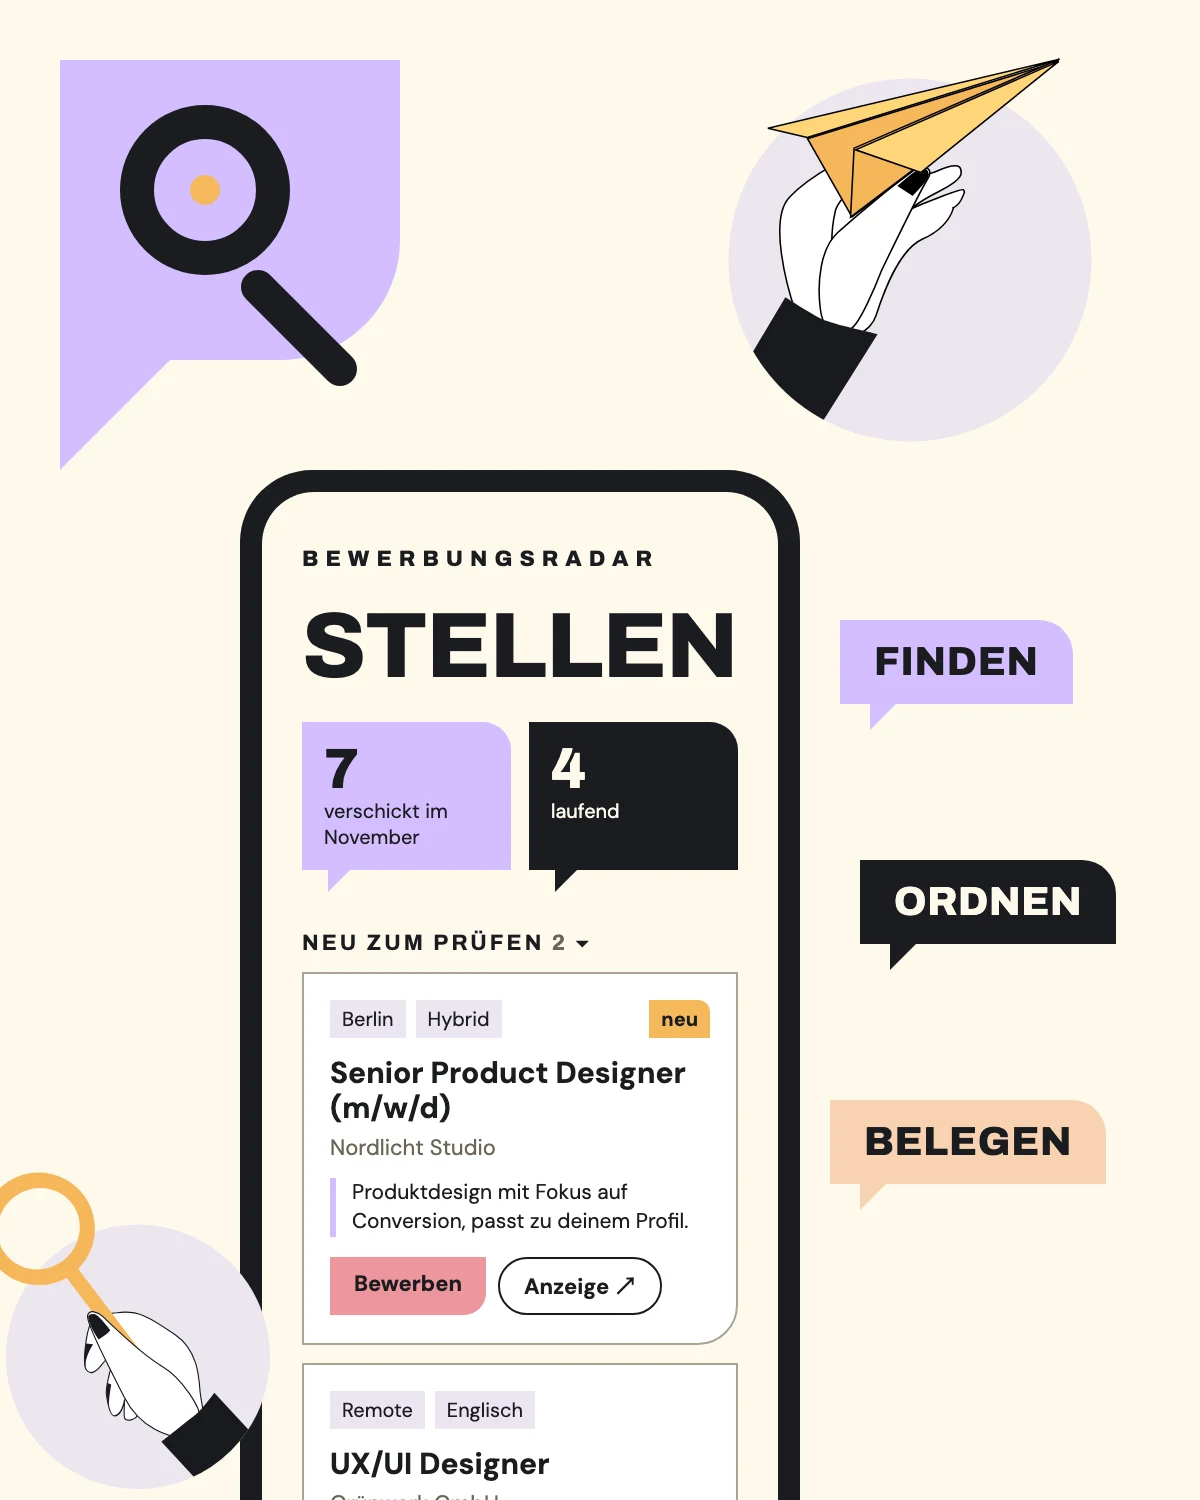
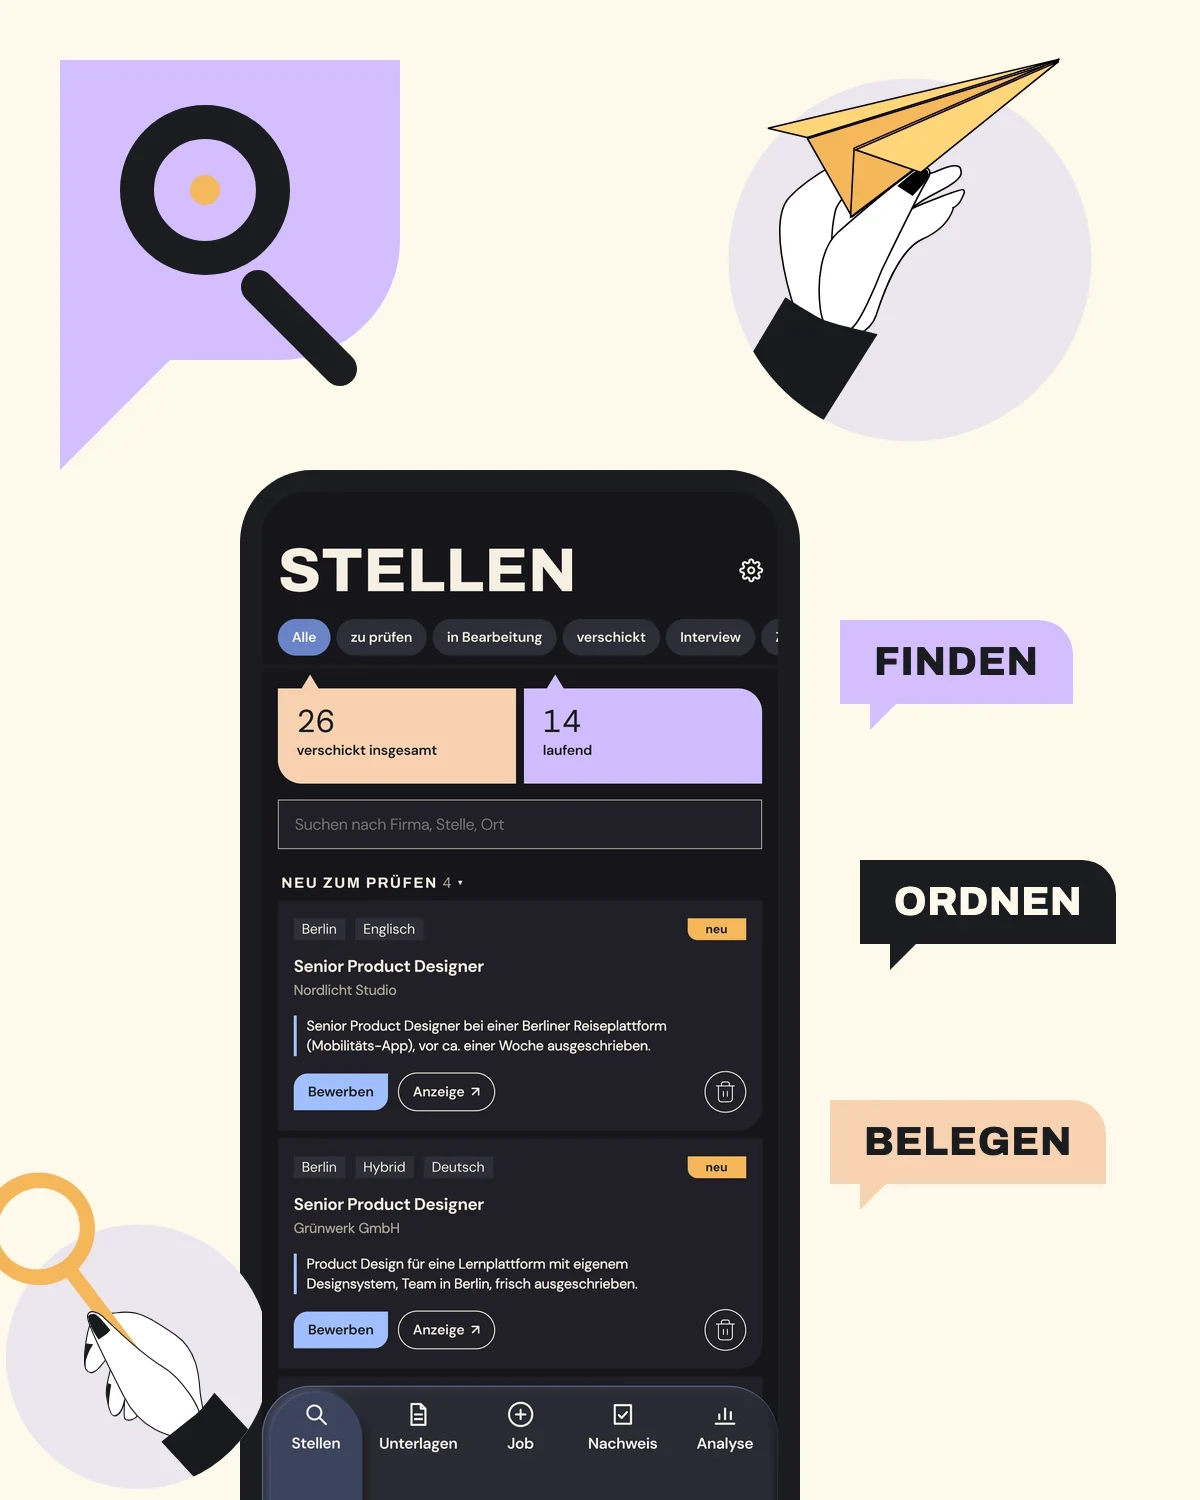
Bewerbungsradar: echter Stellen-Screen auch in Karussell, Teaser und Abschlusskachel

Changed region(s): [[0.2158, 0.3067, 0.6475, 1.0]]

diff --git a/cs-bewerbungsradar.html b/cs-bewerbungsradar.html
@@ -452,7 +452,7 @@
           <p data-only="en"><b>Still open:</b> So far, I’m the only one who has tested the app. Tests with other job seekers haven’t happened yet and are the next step.</p>
           <p class="cs-proto-line"><a class="btn-view is-inline" href="https://bewerbungsradar.vercel.app" target="_blank" rel="noopener"><span data-only="de">Zur Live-App</span><span data-only="en">Open the live app</span></a> <span class="rd-note"><span data-only="de">(Anmeldung per E-Mail)</span><span data-only="en">(sign-in via email)</span></span></p>
         </div>
-        <img class="cs-img is-fill" src="images/radar-tile.webp" width="1200" height="1500" loading="lazy" alt="Handy mit dem Reiter „Stellen“ des Bewerbungsradars, umgeben von der lila Sprechblase, gezeichneten Händen und den Sprechblasen Finden, Ordnen, Belegen" data-i18n-alt="rd.tile">
+        <img class="cs-img is-fill" src="images/radar-tile.webp?v=2" width="1200" height="1500" loading="lazy" alt="Handy mit dem Reiter „Stellen“ des Bewerbungsradars, umgeben von der lila Sprechblase, gezeichneten Händen und den Sprechblasen Finden, Ordnen, Belegen" data-i18n-alt="rd.tile">
       </div>
 
       <div class="cs-cols3">

diff --git a/index.html b/index.html
@@ -144,7 +144,7 @@
       <li class="sm-tile sm-tall">
         <div class="sm-pic rd-anim" role="img" aria-label="Handy mit dem Reiter „Stellen“ des Bewerbungsradars: ein Papierflieger startet aus einer gezeichneten Hand, nacheinander erscheinen die Sprechblasen Finden, Ordnen, Belegen" data-i18n-aria="sm.radar">
           <div class="rd-stage">
-            <img class="rd-l-bg" src="images/radar-tile-bg.webp" width="1200" height="1500" loading="lazy" alt="">
+            <img class="rd-l-bg" src="images/radar-tile-bg.webp?v=2" width="1200" height="1500" loading="lazy" alt="">
             <img class="rd-l rd-l-lupe" src="images/radar-tile-lupe.webp" width="270" height="317" loading="lazy" alt="">
             <img class="rd-l rd-l-hand" src="images/radar-tile-hand.webp" width="364" height="364" loading="lazy" alt="">
             <img class="rd-l rd-l-plane" src="images/radar-tile-plane.webp" width="293" height="161" loading="lazy" alt="">

diff --git a/all-projects.html b/all-projects.html
@@ -155,7 +155,7 @@
 
       <!-- Bewerbungsradar (eigene App, in Weiterentwicklung) -->
       <article class="card card-dark card-feature">
-        <div class="pic-box"><img class="pic" src="images/radar-hero.webp?v=1" width="2400" height="773" alt="Bewerbungsradar: lila Sprechblase mit Lupe, Handy mit dem Reiter „Stellen“, gezeichnete Hände mit Lupe und Papierflieger, dazu die Sprechblasen Finden, Ordnen, Belegen" data-i18n-alt="rd.hero"></div>
+        <div class="pic-box"><img class="pic" src="images/radar-hero.webp?v=2" width="2400" height="773" alt="Bewerbungsradar: lila Sprechblase mit Lupe, Handy mit dem Reiter „Stellen“, gezeichnete Hände mit Lupe und Papierflieger, dazu die Sprechblasen Finden, Ordnen, Belegen" data-i18n-alt="rd.hero"></div>
         <div class="txt">
           <div>
             <h3>Bewerbungsradar</h3>
